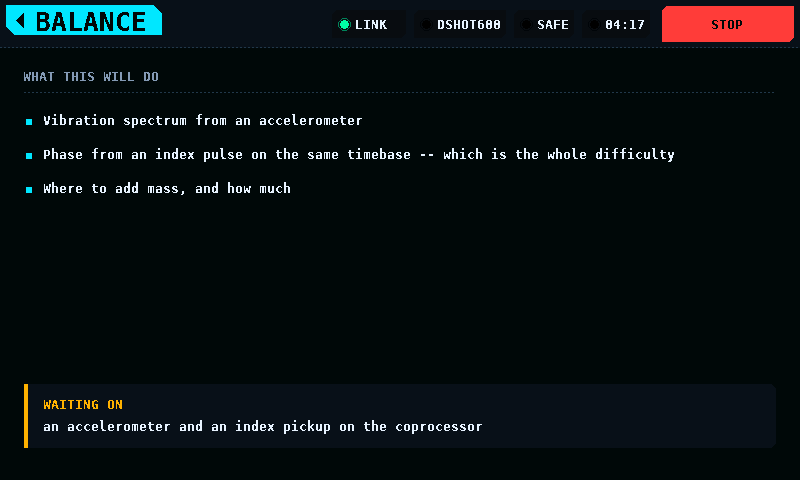
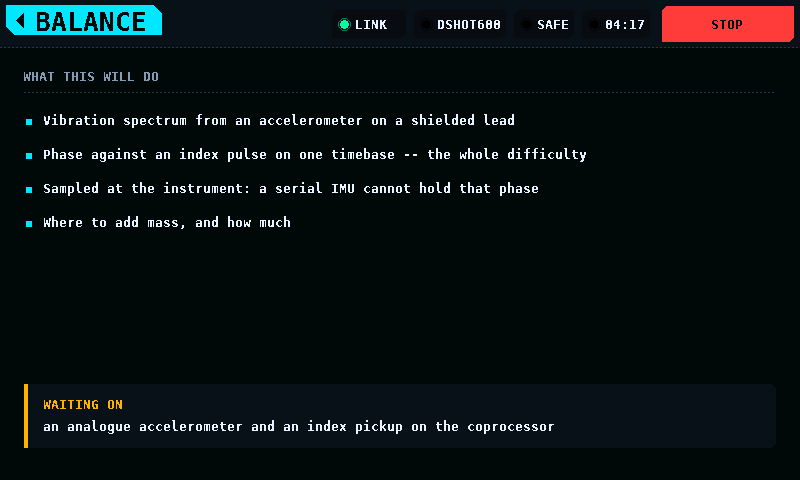
feat(ui): the balance sensor and the surface-angle sensor are not the same part
They look interchangeable in a catalogue and they are not, so the reason is
written where somebody choosing one will read it.

A packaged serial IMU -- nine axes, onboard fusion, RS232 on a lead -- is ideal
for a control-surface angle.  The measurement is static, the part is already
housed and on a cable, and it reads the *surface* rather than the servo's
output shaft: linkage slop, horn geometry and pushrod flex included, which is
what the aeroplane actually gets.  Sub-0.1 degrees, limited by how repeatably
it is stuck on rather than by the sensor.

It cannot do balancing, and not because it is cheap.  Balancing is a phase
measurement -- the answer is an angle, "add mass there".  A prop at 10,000 rpm
turns once every 6 ms, and serial framing plus fusion group delay is easily
5 ms and neither constant nor published: 300 degrees of error.  A helicopter
head at 2,000 rpm, one turn every 30 ms, still lands 60 degrees out.  The mass
goes on with great precision, in the wrong place.

So balancing gets an analogue accelerometer on a shielded lead, sampled by the
coprocessor's own converter in lockstep with the index capture -- one timebase
because the sampling happens at the instrument rather than at the sensor.

One constraint recorded before somebody rediscovers it with a rudder: gravity
gives two observable axes and never three.  Rotation about the gravity vector
is invisible, so a rudder on an upright model reads exactly zero across its
[…]

diff --git a/shared/ui/stub_screen.c b/shared/ui/stub_screen.c
@@ -6,6 +6,9 @@
 #include "ui_widgets.h"
 
 #define W 800
+/* Where the copy starts, and the margin it must leave on the right. */
+#define COPY_X 44
+#define COPY_R 24
 #define H (480 - UI_BAND_H)
 
 typedef struct {
@@ -28,12 +31,31 @@ static const copy_t k_copy[SCREEN_COUNT] = {
           "KISS telemetry decoded, and limits that cut out without asking" },
         "the bench page is not defined yet; the link that carries it is",
     },
+    /*
+     * The surface-angle line is measured with an accelerometer stuck to the
+     * control surface, not an encoder on the servo's output shaft.  The
+     * encoder tells you what the horn did; the accelerometer tells you what
+     * the aeroplane got, linkage slop, horn geometry and pushrod flex
+     * included.  Sub-0.1 degrees, limited by how repeatably it is mounted
+     * rather than by the part.
+     *
+     * The gyro in the same package covers what the accelerometer cannot: it
+     * gives rate through the transit, where the accelerometer is contaminated
+     * by the very motion it is trying to measure.
+     *
+     * One thing to know before mounting one, because it costs an afternoon:
+     * gravity gives two observable axes and never three.  Rotation *about*
+     * the gravity vector is invisible, so a rudder on an upright model --
+     * vertical hinge line -- reads exactly zero across its whole throw.  Lay
+     * the model on its side and it reads like anything else.  Ailerons and
+     * elevators on a level model are fine as they are.
+     */
     [SCREEN_SERVO] = {
         "SERVO",
         { "Eight channels of pulse, any width and rate, narrow band included",
           "Sweep, step, centre, hold, manual and endpoint",
           "Width, frame rate and jitter measured; glitches and dropouts kept",
-          "Behaviour across supply voltage, and the brown-out found on purpose" },
+          "Surface angle measured on the surface: linkage slop included" },
         "the coprocessor's PWM and capture are not written",
     },
     [SCREEN_ANALYSER] = {
@@ -68,14 +90,33 @@ static const copy_t k_copy[SCREEN_COUNT] = {
           "Smart-battery data: cycles, chemistry, error history" },
         "a cell-monitor part, and the INA228 is back-ordered into 2027",
     },
+    /*
+     * Not the same sensor as the servo bench uses, and the reason is worth
+     * writing down because the parts look interchangeable in a catalogue.
+     *
+     * A packaged serial IMU -- 9 axes, onboard fusion, RS232 on a lead -- is
+     * ideal for a surface angle and useless here.  Balancing is a *phase*
+     * measurement: the answer is an angle, "add mass there".  A prop at
+     * 10,000 rpm turns once every 6 ms, and serial framing plus fusion group
+     * delay is easily 5 ms and neither constant nor published.  That is 300
+     * degrees of error.  Even a helicopter head at 2,000 rpm, one turn every
+     * 30 ms, lands 60 degrees out.  The mass goes on with great precision, in
+     * the wrong place.
+     *
+     * So: an analogue accelerometer or piezo on a shielded lead, sampled by
+     * the coprocessor's own converter in lockstep with the index capture.
+     * One timebase because the sampling happens at the instrument rather than
+     * at the sensor.  The converter's 7.5 effective bits are poor for
+     * absolute measurement and ample for relative amplitude and phase
+     * averaged over many revolutions.
+     */
     [SCREEN_BALANCE] = {
         "BALANCE",
-        { "Vibration spectrum from an accelerometer",
-          "Phase from an index pulse on the same timebase -- which is the "
-          "whole difficulty",
-          "Where to add mass, and how much",
-          NULL },
-        "an accelerometer and an index pickup on the coprocessor",
+        { "Vibration spectrum from an accelerometer on a shielded lead",
+          "Phase against an index pulse on one timebase -- the whole difficulty",
+          "Sampled at the instrument: a serial IMU cannot hold that phase",
+          "Where to add mass, and how much" },
+        "an analogue accelerometer and an index pickup on the coprocessor",
     },
     [SCREEN_PROGRAMMER] = {
         "PROGRAMMER",
@@ -86,6 +127,22 @@ static const copy_t k_copy[SCREEN_COUNT] = {
         "for the rest: borrow the programmer and capture the wire",
     },
 };
+
+const char *const *stub_copy_lines(ui_screen_id_t id)
+{
+    if (id < 0 || id >= SCREEN_COUNT || k_copy[id].title == NULL) {
+        return NULL;
+    }
+    return k_copy[id].what;
+}
+
+const char *stub_copy_blocker(ui_screen_id_t id)
+{
+    if (id < 0 || id >= SCREEN_COUNT) {
+        return NULL;
+    }
+    return k_copy[id].blocker;
+}
 
 static struct {
     ui_screen_id_t id;
@@ -114,7 +171,7 @@ static void render(gfx_canvas_t *c, int buffer_index)
     int y = 64;
     for (int i = 0; i < 4 && k->what[i] != NULL; ++i) {
         gfx_fill_rect(c, 26, y + 7, 6, 6, ui_theme_color(UI_C_ACCENT));
-        gfx_text(c, 44, y, k->what[i], &gfx_font_8x16,
+        gfx_text(c, COPY_X, y, k->what[i], &gfx_font_8x16,
                  ui_theme_color(UI_C_TEXT), 1);
         y += 34;
     }

diff --git a/test/host/test_nav.c b/test/host/test_nav.c
@@ -536,6 +536,39 @@ TEST_CASE(switching_the_mark_invalidates_the_cached_chrome)
     free(first);
 }
 
+/*
+ * The stub copy is drawn with gfx_text, which clips at the canvas edge rather
+ * than wrapping.  A line that is too long is silently cut mid-word and reads
+ * as a rendering fault rather than as an over-long string -- which is exactly
+ * how it was found: a line about balancing ran off the right edge and the
+ * golden image looked broken.
+ */
+TEST_CASE(no_line_of_stub_copy_runs_off_the_screen)
+{
+    fresh();
+    for (int id = SCREEN_MOTOR; id < SCREEN_COUNT; ++id) {
+        const char *const *lines = stub_copy_lines((ui_screen_id_t)id);
+        if (lines == NULL) {
+            continue;
+        }
+        for (int i = 0; i < 4 && lines[i] != NULL; ++i) {
+            const int w = gfx_text_width(&gfx_font_8x16, lines[i], 1);
+            if (w > STUB_COPY_MAX_W) {
+                T_FAIL("screen %d line %d is %d px, over %d",
+                       id, i, w, STUB_COPY_MAX_W);
+            }
+        }
+        const char *blocker = stub_copy_blocker((ui_screen_id_t)id);
+        if (blocker != NULL) {
+            const int w = gfx_text_width(&gfx_font_8x16, blocker, 1);
+            if (w > STUB_COPY_MAX_W) {
+                T_FAIL("screen %d blocker is %d px, over %d",
+                       id, w, STUB_COPY_MAX_W);
+            }
+        }
+    }
+}
+
 int main(void)
 {
     RUN(the_router_starts_on_the_splash);
@@ -549,6 +582,7 @@ int main(void)
     RUN(a_second_contact_cannot_steal_the_release);
     RUN(a_tile_navigates_and_a_slip_does_not);
     RUN(every_stub_renders_something_and_says_something);
+    RUN(no_line_of_stub_copy_runs_off_the_screen);
     RUN(an_alert_survives_navigation);
     RUN(the_band_shows_what_is_wrong);
     RUN(the_splash_holds_then_hands_over);

diff --git a/shared/ui/include/stub_screen.h b/shared/ui/include/stub_screen.h
@@ -17,6 +17,21 @@ extern "C" {
 
 void stub_invalidate(void);
 
+/**
+ * The widest a line of stub copy may be, in pixels.
+ *
+ * The copy is drawn with gfx_text, which clips at the canvas edge rather than
+ * wrapping -- so a line that is too long is silently cut mid-word and looks
+ * like a rendering fault rather than an over-long string.  test_nav holds
+ * every line to this.
+ */
+#define STUB_COPY_MAX_W 732
+
+/** Every line of copy for @p id, NULL-terminated; for tests. */
+const char *const *stub_copy_lines(ui_screen_id_t id);
+/** The blocker line for @p id, or NULL when nothing is blocking it. */
+const char *stub_copy_blocker(ui_screen_id_t id);
+
 /** One instance serves every stub; the id selects its copy. */
 const ui_screen_t *stub_screen(ui_screen_id_t id);
 

diff --git a/README.md b/README.md
@@ -365,7 +365,7 @@ screenshots to the current render, and `frame_cost.py` holds the steady-state
 frame to 12,000 cache-line fills. It currently costs **740**.
 
 <!-- coverage:start -->
-![coverage](https://img.shields.io/badge/host--test%20coverage-95.0%25-brightgreen)
+![coverage](https://img.shields.io/badge/host--test%20coverage-94.9%25-brightgreen)
 
 | File | Lines | Covered | Coverage |
 | --- | ---: | ---: | ---: |
@@ -383,7 +383,7 @@ frame to 12,000 cache-line fills. It currently costs **740**.
 | `shared/ui/ui_router.c` | 122 | 116 | 95.1% |
 | `shared/ui/splash_screen.c` | 60 | 57 | 95.0% |
 | `shared/ui/overview_screen.c` | 65 | 60 | 92.3% |
-| `shared/ui/stub_screen.c` | 37 | 35 | 94.6% |
+| `shared/ui/stub_screen.c` | 45 | 41 | 91.1% |
 | `shared/settings/settings.c` | 131 | 125 | 95.4% |
 | `shared/logfile/log_numbers.c` | 393 | 369 | 93.9% |
 | `shared/logfile/log_csv.c` | 571 | 541 | 94.8% |
@@ -392,7 +392,7 @@ frame to 12,000 cache-line fills. It currently costs **740**.
 | `shared/link/link_frame.c` | 112 | 107 | 95.5% |
 | `shared/link/link_dev.c` | 69 | 66 | 95.7% |
 | `shared/link/link_host.c` | 69 | 63 | 91.3% |
-| **total** | **2903** | **2757** | **95.0%** |
+| **total** | **2911** | **2763** | **94.9%** |
 
 _Generated by `tools/coverage.py`; CI runs `--check` and fails on drift._
 <!-- coverage:end -->
